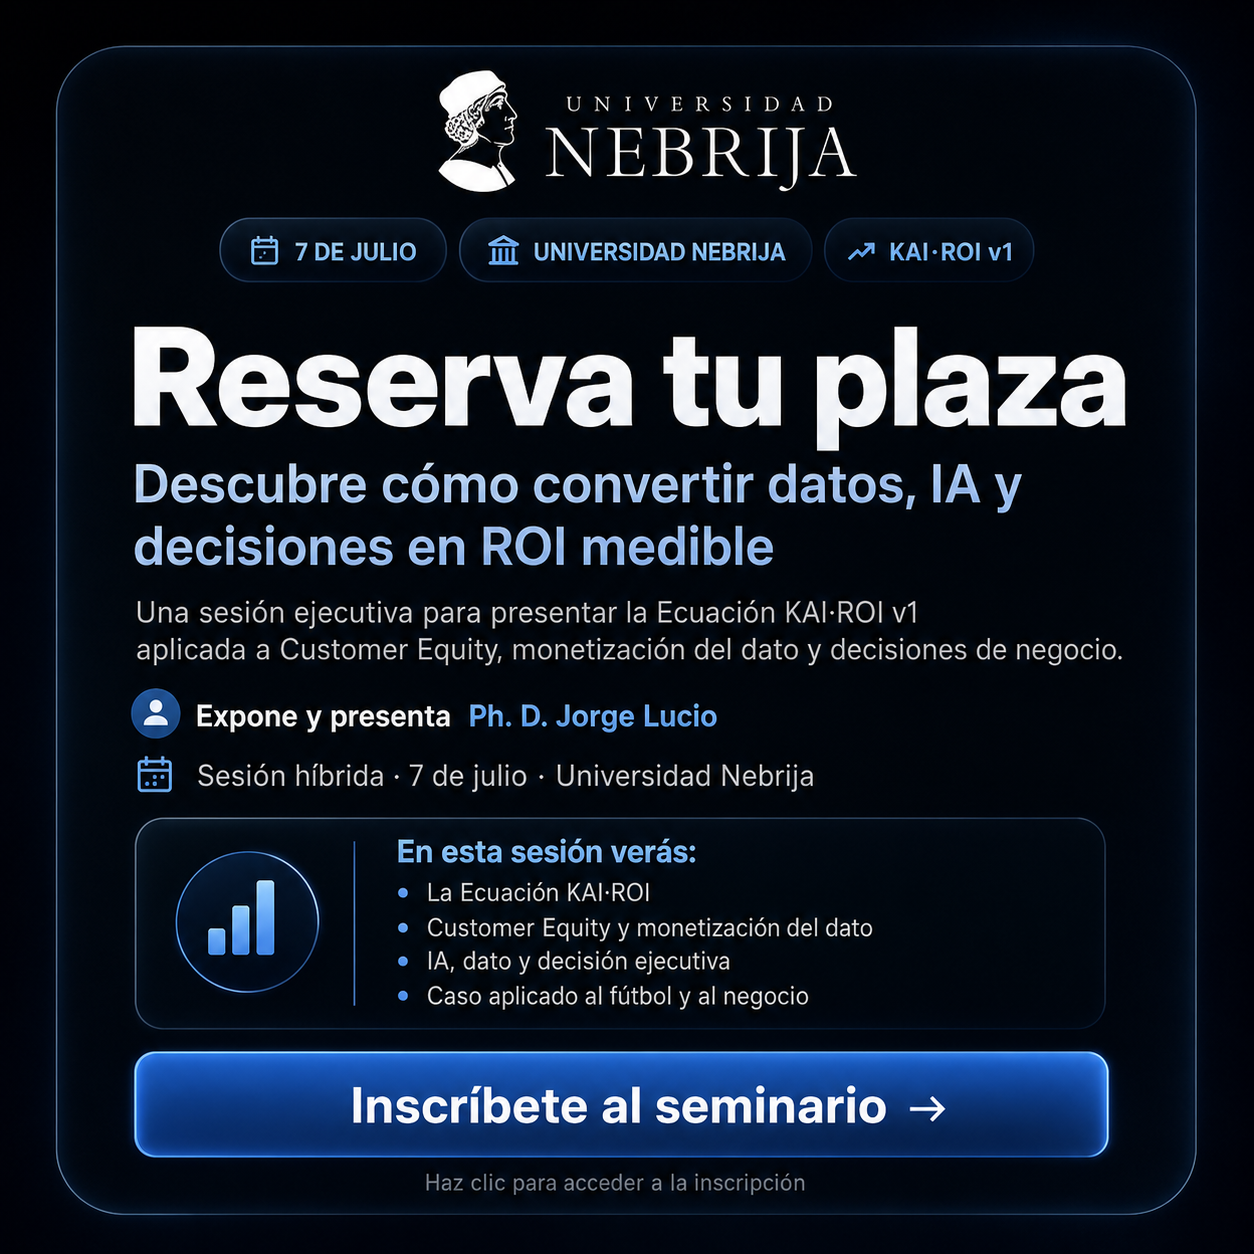
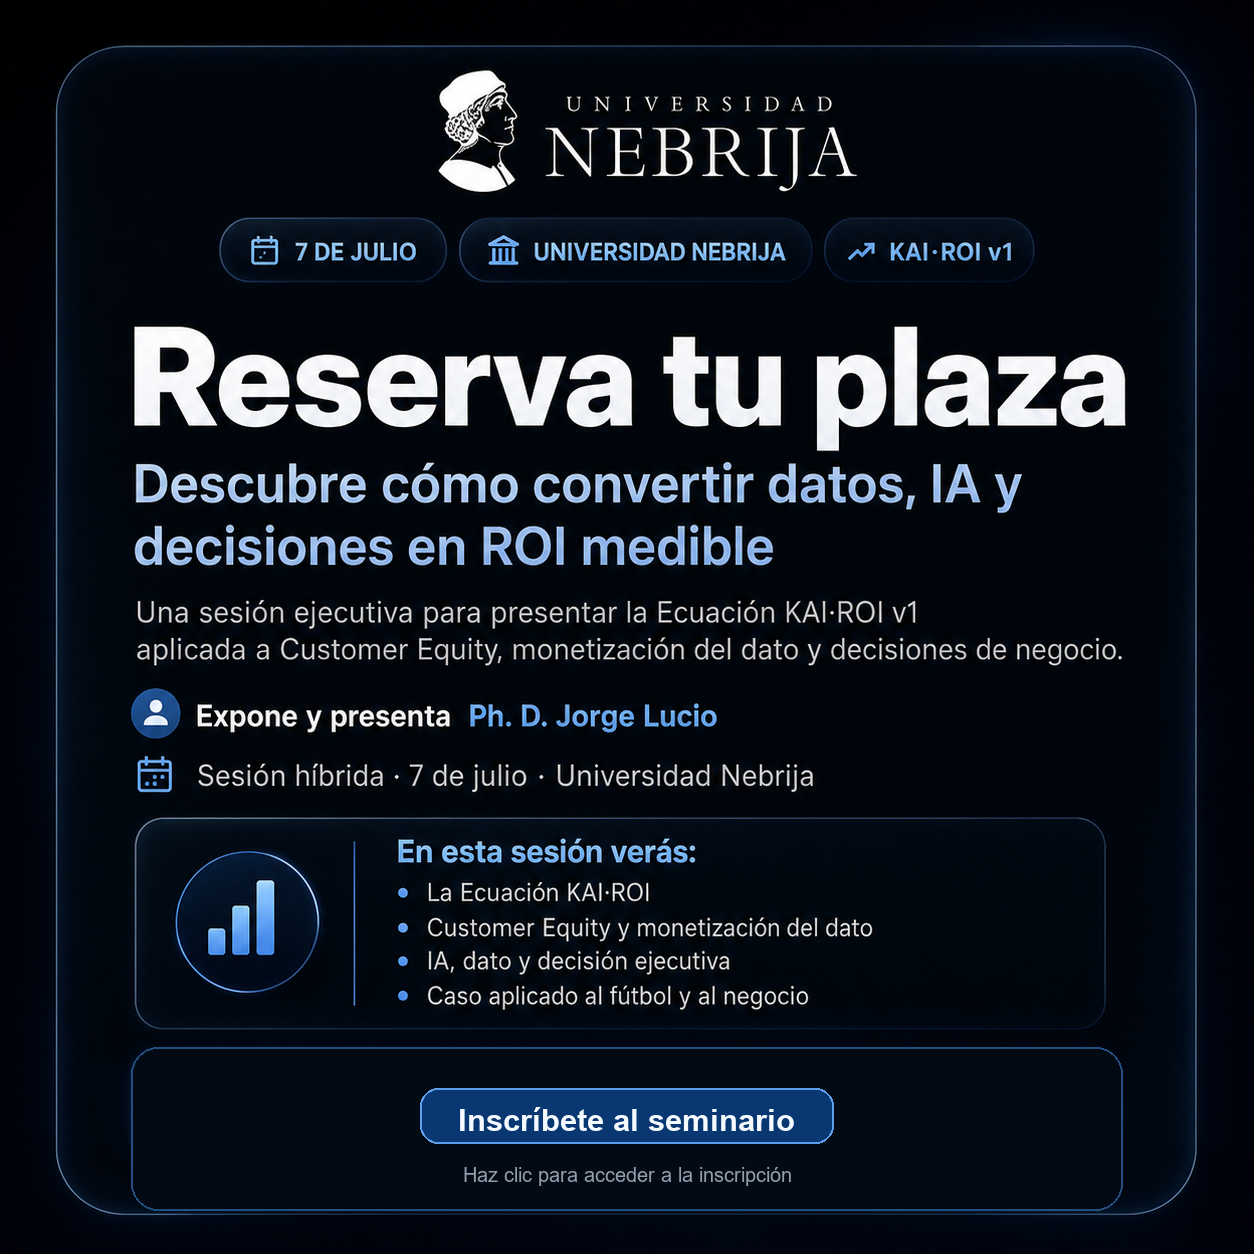
Tune KAI ROI seminar CTA

Changed region(s): [[0.0933, 0.8086, 0.9019, 0.9641]]

diff --git a/index.html b/index.html
@@ -46,7 +46,7 @@
       </div></div></div></section>
       <section id="botiquin-docroi-executive" class="docroi-section" style="background:linear-gradient(90deg,rgba(221,229,238,.36) 1px,transparent 1px),linear-gradient(180deg,#FFFFFF 0%,#F1F4F8 100%);background-size:34px 34px,auto;padding:76px 24px;" aria-labelledby="titulo-docroi-executive"><div style="max-width:1180px;margin:0 auto;"><a href="https://doc-roi-executive.vercel.app/" target="_blank" rel="noopener noreferrer" style="display:block;text-decoration:none;color:inherit;border-radius:30px;overflow:hidden;background:linear-gradient(135deg,rgba(5,7,11,.96),rgba(0,59,92,.90)),url('https://docroi.marketing/wp-content/uploads/2026/06/7b14b5e4-c3f0-4e1f-afe2-25fedb341e3a.png') center/cover no-repeat;border:1px solid rgba(216,236,248,.22);box-shadow:0 28px 70px rgba(0,59,92,.18);"><div style="display:grid;grid-template-columns:repeat(auto-fit,minmax(280px,1fr));align-items:stretch;"><div style="padding:clamp(32px,5vw,56px);color:#FFFFFF;"><span style="display:inline-block;background:rgba(216,236,248,.12);color:#D8ECF8;border:1px solid rgba(216,236,248,.30);border-radius:999px;padding:8px 12px;font-size:10px;font-weight:900;letter-spacing:.08em;margin-bottom:20px;text-transform:uppercase;">Nuevo circuito executive</span><h2 id="titulo-docroi-executive" style="font-family:Inter,Helvetica,Arial,sans-serif;font-size:clamp(34px,6vw,58px);line-height:1.02;margin:0 0 18px;font-weight:900;letter-spacing:-1.2px;color:#FFFFFF;">DocROI Executive</h2><p style="font-family:Inter,Helvetica,Arial,sans-serif;font-size:clamp(19px,2.5vw,25px);line-height:1.28;color:#FFFFFF;margin:0 0 18px;max-width:760px;font-weight:900;letter-spacing:-.02em;">Lleva la inteligencia del dato al aula, al talento y a la decisión directiva.</p><p style="font-family:Inter,Helvetica,Arial,sans-serif;font-size:16px;line-height:1.75;color:#D8ECF8;margin:0 0 24px;max-width:720px;">Un espacio para responsables de RRHH, formación corporativa y dirección académica que buscan activar IA, ROI y cultura digital con docentes expertos, criterios de negocio y experiencias aplicables.</p><div style="display:flex;flex-wrap:wrap;gap:8px;margin-bottom:26px;"><span style="background:rgba(255,255,255,.08);color:#EAF6FB;border:1px solid rgba(216,236,248,.22);border-radius:999px;padding:7px 10px;font-size:10px;font-weight:800;letter-spacing:.02em;">Talento</span><span style="background:rgba(255,255,255,.08);color:#EAF6FB;border:1px solid rgba(216,236,248,.22);border-radius:999px;padding:7px 10px;font-size:10px;font-weight:800;letter-spacing:.02em;">Executive education</span><span style="background:rgba(255,255,255,.08);color:#EAF6FB;border:1px solid rgba(216,236,248,.22);border-radius:999px;padding:7px 10px;font-size:10px;font-weight:800;letter-spacing:.02em;">In-company</span><span style="background:rgba(255,255,255,.08);color:#EAF6FB;border:1px solid rgba(216,236,248,.22);border-radius:999px;padding:7px 10px;font-size:10px;font-weight:800;letter-spacing:.02em;">IA + ROI</span></div><span style="display:inline-flex;align-items:center;justify-content:center;min-height:52px;background:#FFFFFF;color:#003B5C;border-radius:999px;padding:14px 22px;font-size:14px;font-weight:900;line-height:1.15;text-align:center;box-shadow:0 18px 34px rgba(0,0,0,.24);">Explorar DocROI Executive →</span></div><div style="padding:clamp(28px,4vw,48px);display:flex;align-items:center;justify-content:center;"><div style="width:100%;max-width:390px;background:rgba(5,7,11,.88);color:#FFFFFF;border-radius:24px;padding:28px;border:1px solid rgba(216,236,248,.22);box-shadow:0 20px 48px rgba(0,0,0,.30);"><img src="https://docroi.marketing/wp-content/uploads/2026/05/Logo_Negro_DoC_ROI.jpg" alt="Doc ROI" style="height:58px;width:auto;display:block;margin:0 0 22px;background:#000000;border-radius:0;"><strong style="display:block;font-family:Inter,Helvetica,Arial,sans-serif;font-size:24px;line-height:1.14;color:#FFFFFF;margin-bottom:12px;">Formación que aterriza tecnología, dato y valor en decisiones reales.</strong><p style="font-family:Inter,Helvetica,Arial,sans-serif;font-size:14px;line-height:1.7;color:#C9D6E2;margin:0;">Solicita perfiles docentes, programas executive o sesiones in-company para transformar contenidos complejos en aprendizaje aplicable.</p></div></div></div></a></div></section>
       <section class="diiip" aria-labelledby="titulo-diiip"><div class="diiip-wrap"><div class="diiip-head"><span class="diiip-kicker">METODOLOGÍA AL FINAL DEL RECORRIDO</span><h2 id="titulo-diiip">DIIIP explica por qué esta conexión genera valor</h2><p>Después de entender el caso, el ROI y la eficiencia, DIIIP ordena la lógica: el valor no aparece en un nodo aislado. El valor aparece cuando el dato bruto se transforma en una decisión visible.</p></div><div class="diiip-list"><div class="diiip-item"><div class="diiip-letter">D</div><div><strong>Data</strong><p>Correos recibidos en Gmail como dato bruto.</p></div></div><div class="diiip-item"><div class="diiip-letter">I</div><div><strong>Information</strong><p>email_id, profesor, alumno, fecha, notas y cuerpo del correo.</p></div></div><div class="diiip-item"><div class="diiip-letter">I</div><div><strong>Intelligence</strong><p>El agente IA entiende el correo y extrae la evaluación.</p></div></div><div class="diiip-item"><div class="diiip-letter">I</div><div><strong>Insights</strong><p>Notas medias, alumnos en riesgo, distribución de resultados y lectura útil para gestión.</p></div></div><div class="diiip-item"><div class="diiip-letter">P</div><div><strong>Personalization Actions</strong><p>Looker Studio y seguimiento académico como acción operativa visible.</p></div></div></div></div></section>
-      <section id="kai-roi" class="docroi-section" style="position:relative;background:linear-gradient(180deg,rgba(11,15,25,.98) 0%,rgba(11,15,25,.94) 54%,rgba(0,59,92,.82) 100%),url('https://docroi.marketing/wp-content/uploads/2026/05/Imagen1.png') center/cover no-repeat;color:#FFFFFF;padding:78px 24px;overflow:hidden;" aria-labelledby="titulo-kai-roi"><div style="max-width:1180px;margin:0 auto;display:grid;grid-template-columns:repeat(auto-fit,minmax(280px,1fr));gap:34px;align-items:center;"><div><span style="display:inline-block;background:rgba(255,255,255,.10);border:1px solid rgba(255,255,255,.22);color:#D8ECF8;border-radius:999px;padding:10px 15px;font-size:12px;font-weight:900;letter-spacing:.06em;margin-bottom:22px;">KAI·ROI EQUATION · CUSTOMER EQUITY</span><h2 id="titulo-kai-roi" style="font-size:clamp(36px,8vw,58px);line-height:1.04;margin:0 0 22px;font-weight:900;letter-spacing:-1.6px;color:#FFFFFF;">Esta conexión es una puerta de entrada a la Ecuación KAI·ROI</h2><p style="font-size:18px;line-height:1.8;color:#EDF2F7;margin:0 0 22px;max-width:720px;">La primera conexión no termina en la automatización. Termina cuando entiendes cómo un dato operativo puede convertirse en información, inteligencia, indicadores, Customer Equity y decisiones defendibles con criterio económico.</p><p style="font-size:16px;line-height:1.8;color:#C9D6E2;margin:0;max-width:720px;">El documento de la Ecuación KAI·ROI ofrece una introducción ejecutiva para conectar ROI, monetización del dato, Customer Equity y toma de decisiones estratégicas dentro del ecosistema Doc ROI.</p></div><a href="https://docroi.marketing/kai-equation/" target="_blank" rel="noopener noreferrer" aria-label="Acceder al seminario KAI ROI" style="display:block;border-radius:28px;overflow:hidden;border:1px solid rgba(216,236,248,.28);box-shadow:0 28px 70px rgba(0,0,0,.34);background:#05070B;"><img src="./assets/kai-roi-nebrija-seminario.png" alt="Reserva tu plaza para el seminario KAI ROI en Universidad Nebrija" style="width:100%;height:auto;display:block;"></a></div></section>
+      <section id="kai-roi" class="docroi-section" style="position:relative;background:linear-gradient(180deg,rgba(11,15,25,.98) 0%,rgba(11,15,25,.94) 54%,rgba(0,59,92,.82) 100%),url('https://docroi.marketing/wp-content/uploads/2026/05/Imagen1.png') center/cover no-repeat;color:#FFFFFF;padding:78px 24px;overflow:hidden;" aria-labelledby="titulo-kai-roi"><div style="max-width:1180px;margin:0 auto;display:grid;grid-template-columns:repeat(auto-fit,minmax(280px,1fr));gap:34px;align-items:center;"><div><span style="display:inline-block;background:rgba(255,255,255,.10);border:1px solid rgba(255,255,255,.22);color:#D8ECF8;border-radius:999px;padding:10px 15px;font-size:12px;font-weight:900;letter-spacing:.06em;margin-bottom:22px;">KAI·ROI EQUATION · CUSTOMER EQUITY</span><h2 id="titulo-kai-roi" style="font-size:clamp(36px,8vw,58px);line-height:1.04;margin:0 0 22px;font-weight:900;letter-spacing:-1.6px;color:#FFFFFF;">Esta conexión es una puerta de entrada a la Ecuación KAI·ROI</h2><p style="font-size:18px;line-height:1.8;color:#EDF2F7;margin:0 0 22px;max-width:720px;">La primera conexión no termina en la automatización. Termina cuando entiendes cómo un dato operativo puede convertirse en información, inteligencia, indicadores, Customer Equity y decisiones defendibles con criterio económico.</p><p style="font-size:16px;line-height:1.8;color:#C9D6E2;margin:0;max-width:720px;">El documento de la Ecuación KAI·ROI ofrece una introducción ejecutiva para conectar ROI, monetización del dato, Customer Equity y toma de decisiones estratégicas dentro del ecosistema Doc ROI.</p></div><a href="https://nebrija-seminario-ecuacion-kai.vercel.app/" target="_blank" rel="noopener noreferrer" aria-label="Inscribirse al seminario KAI ROI" style="display:block;border-radius:28px;overflow:hidden;border:1px solid rgba(216,236,248,.28);box-shadow:0 28px 70px rgba(0,0,0,.34);background:#05070B;"><img src="./assets/kai-roi-nebrija-seminario.png" alt="Reserva tu plaza para el seminario KAI ROI en Universidad Nebrija" style="width:100%;height:auto;display:block;"></a></div></section>
     </main>
     <footer class="docroi-footer" aria-label="Pie de página Doc ROI"><div style="max-width:920px;margin:0 auto;"><a href="https://doc-roi-executive.vercel.app/" target="_blank" rel="noopener noreferrer" style="display:inline-flex;align-items:center;justify-content:center;text-decoration:none;margin-bottom:24px;" aria-label="Abrir Doc ROI Executive"><img src="https://docroi.marketing/wp-content/uploads/2026/05/Logo_Negro_DoC_ROI.jpg" alt="Doc ROI" style="height:72px;width:auto;display:block;" /></a><div style="margin-bottom:28px;"><a href="https://doc-roi-executive.vercel.app/" target="_blank" rel="noopener noreferrer" style="display:inline-flex;align-items:center;justify-content:center;color:#FFFFFF;text-decoration:none;font-size:15px;font-weight:900;letter-spacing:.01em;line-height:1.4;border-bottom:1px solid rgba(255,255,255,.42);padding-bottom:4px;">Consulta con Doc ROI →</a></div><div style="display:flex;align-items:center;justify-content:center;flex-wrap:wrap;gap:14px;color:#D1D5DB;font-size:14px;line-height:1.6;margin-bottom:24px;"><a href="https://docroi.marketing/aviso-legal/" target="_blank" rel="noopener" style="color:#D1D5DB;text-decoration:none;">Política de privacidad</a><span style="opacity:.4;">|</span><a href="https://docroi.marketing/aviso-legal/" target="_blank" rel="noopener" style="color:#D1D5DB;text-decoration:none;">Aviso legal</a><span style="opacity:.4;">|</span><a href="https://docroi.marketing/aviso-legal/" target="_blank" rel="noopener" style="color:#D1D5DB;text-decoration:none;">Propiedad intelectual</a></div><div style="font-size:15px;line-height:1.9;color:#C0C7D1;font-weight:400;letter-spacing:.01em;"><span style="display:block;">La propiedad intelectual del ecosistema Doc ROI pertenece al</span><a href="https://docroi.marketing/ph-d-jorge-lucio/" target="_blank" rel="noopener noreferrer" style="text-decoration:none;"><span style="display:block;color:#F3F4F6!important;font-weight:500;">Ph. D. Jorge Lucio Sánchez Galán.</span></a></div></div></footer>
   </div>